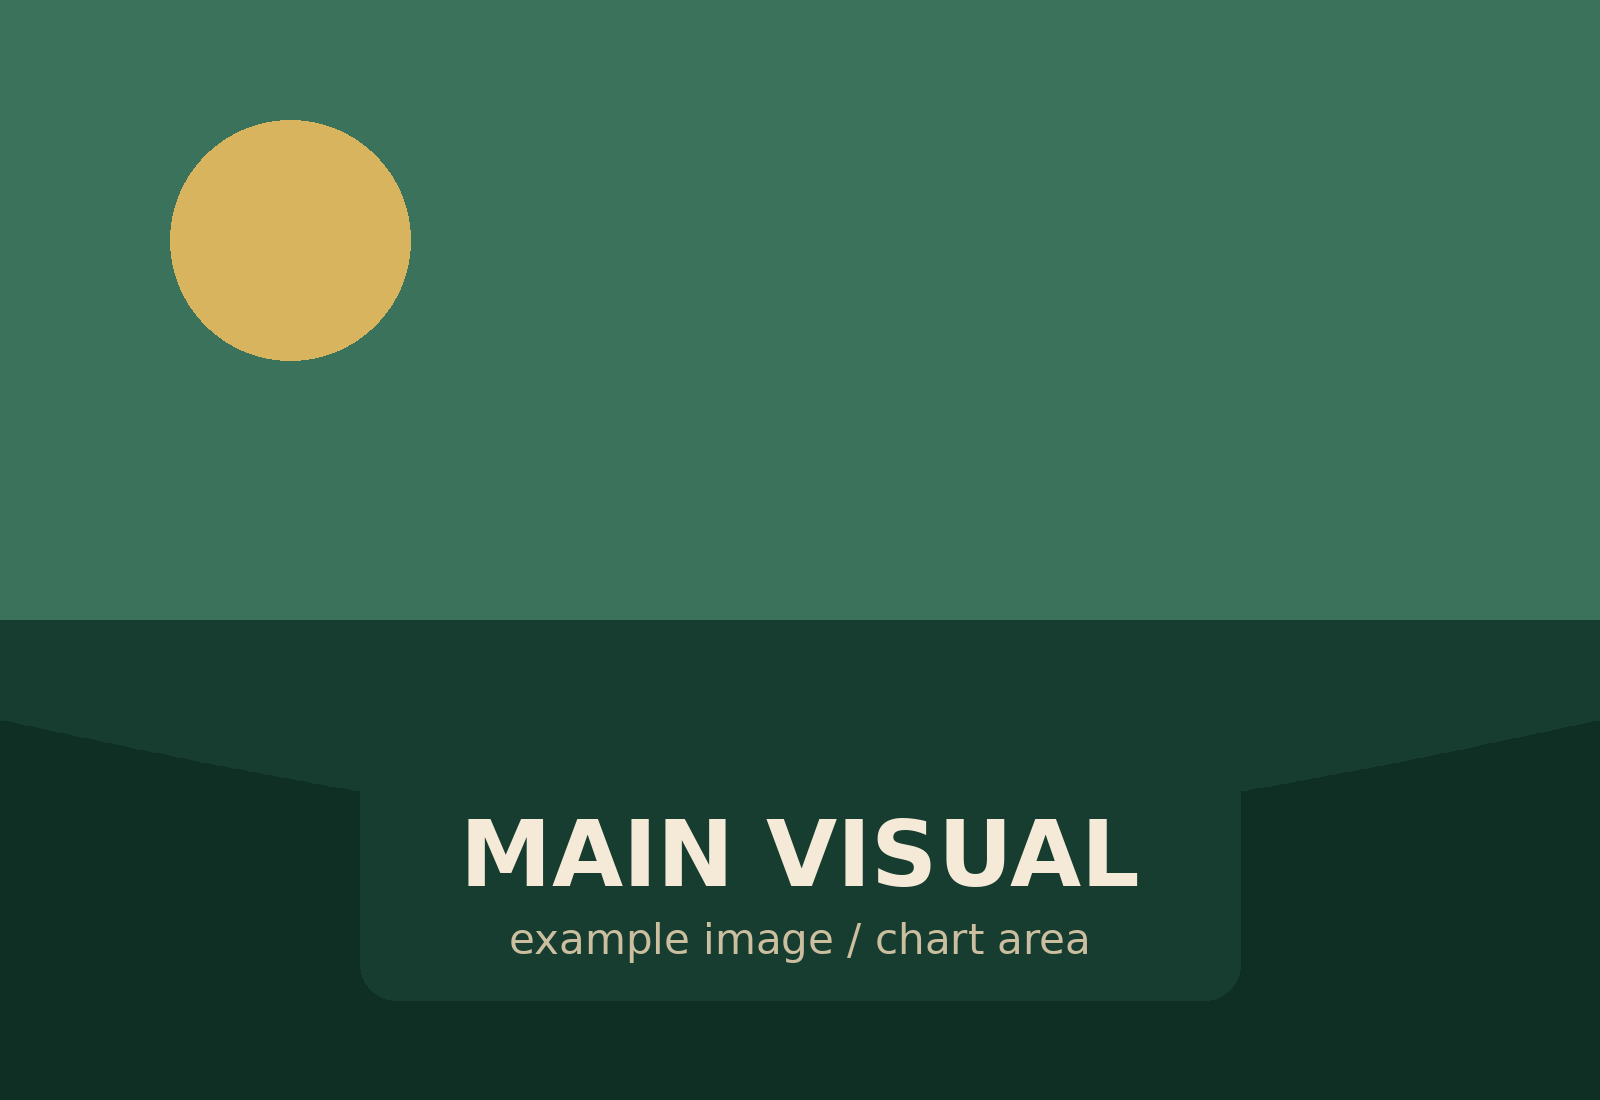
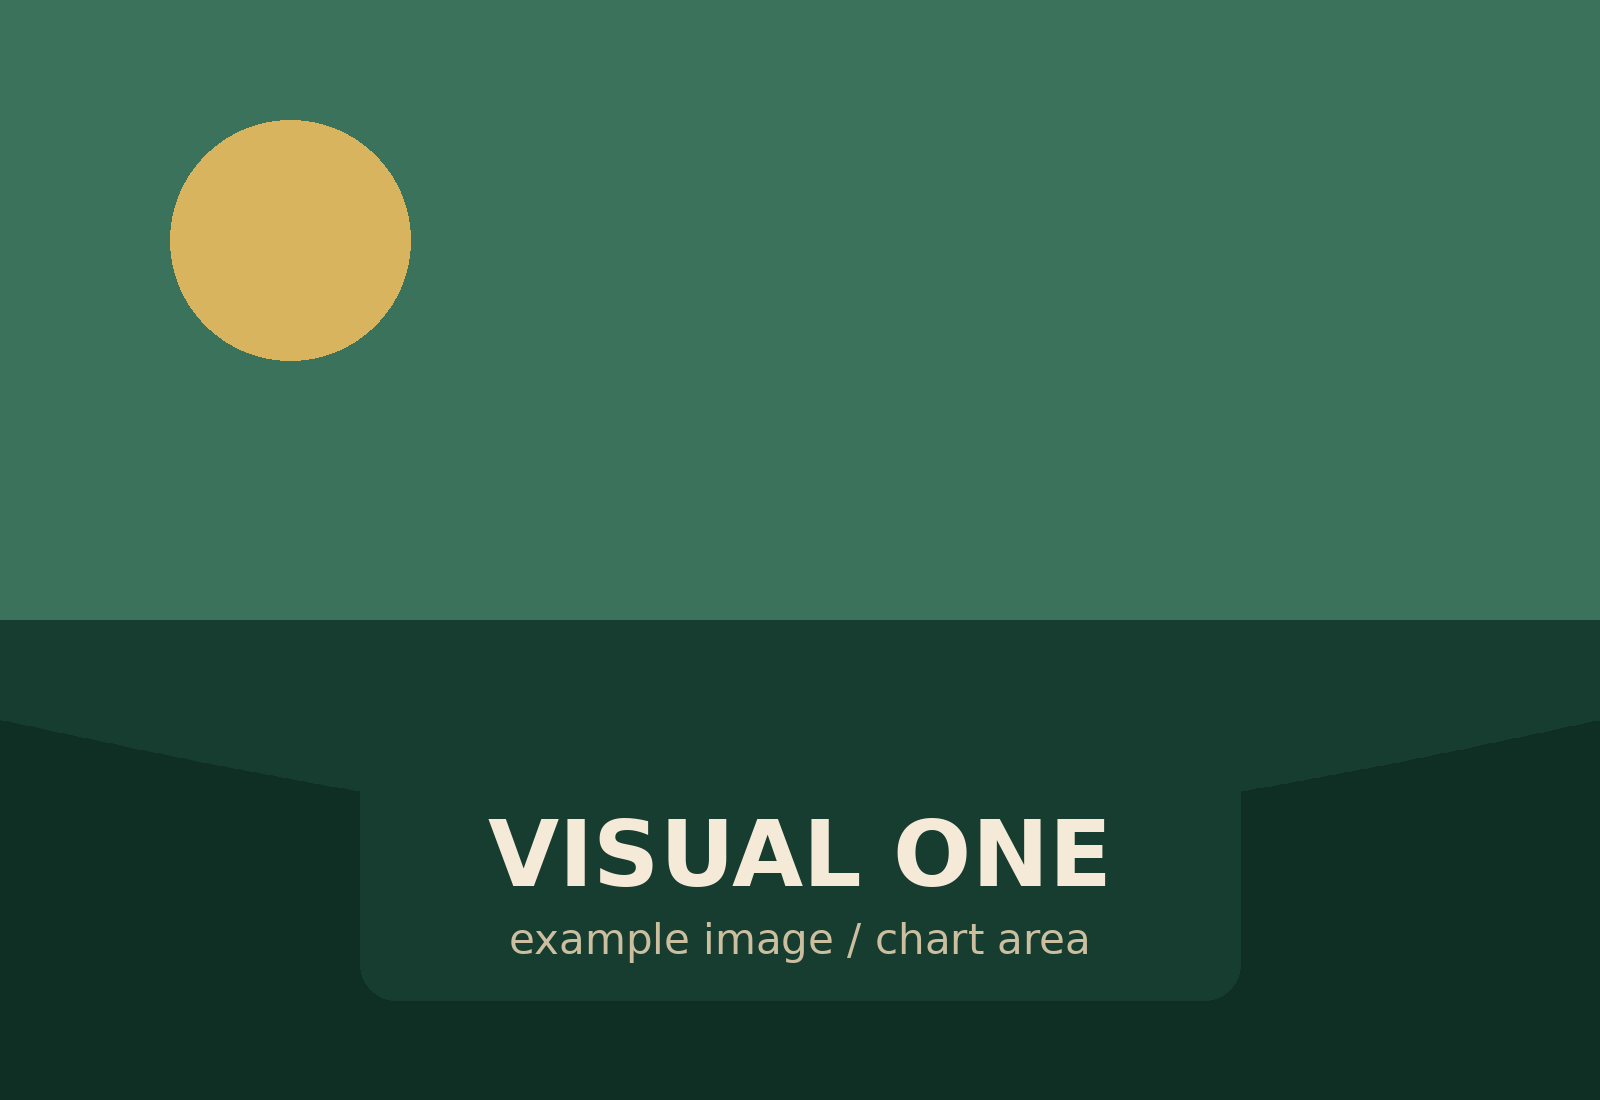
Update template render preview for run 26147247768

Changed region(s): [[0.2812, 0.7418, 0.7188, 0.8036]]

diff --git a/README.md b/README.md
@@ -1,6 +1,6 @@
 # Instagram template preview output
 
 Latest template preview:
-https://raw.githubusercontent.com/eirepolitic/eirepolitic-data-pipeline/instagram-preview-output/preview/png/title_split_visual_text_draft_v1.png
+https://raw.githubusercontent.com/eirepolitic/eirepolitic-data-pipeline/instagram-preview-output/preview/png/title_two_visuals_draft_v1.png
 
 Review only: this does not publish, schedule, or approve Instagram content.
